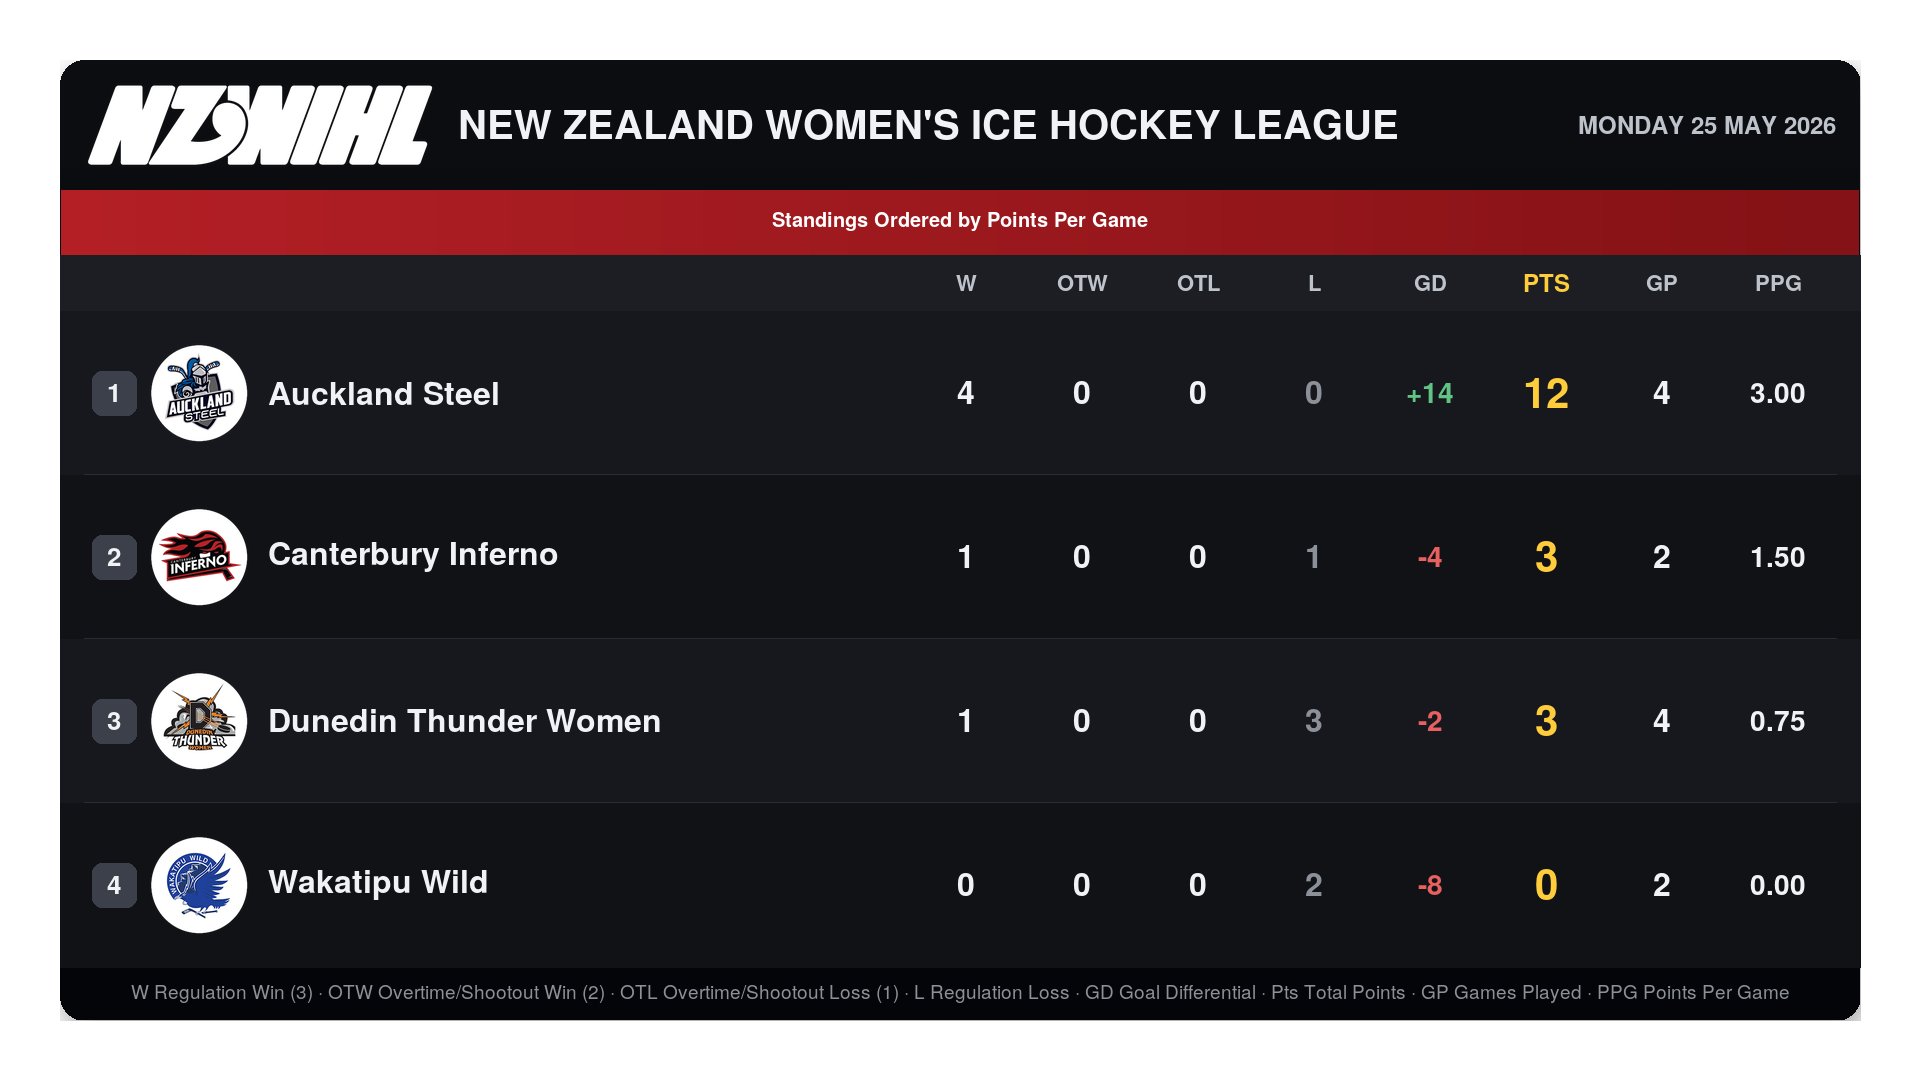
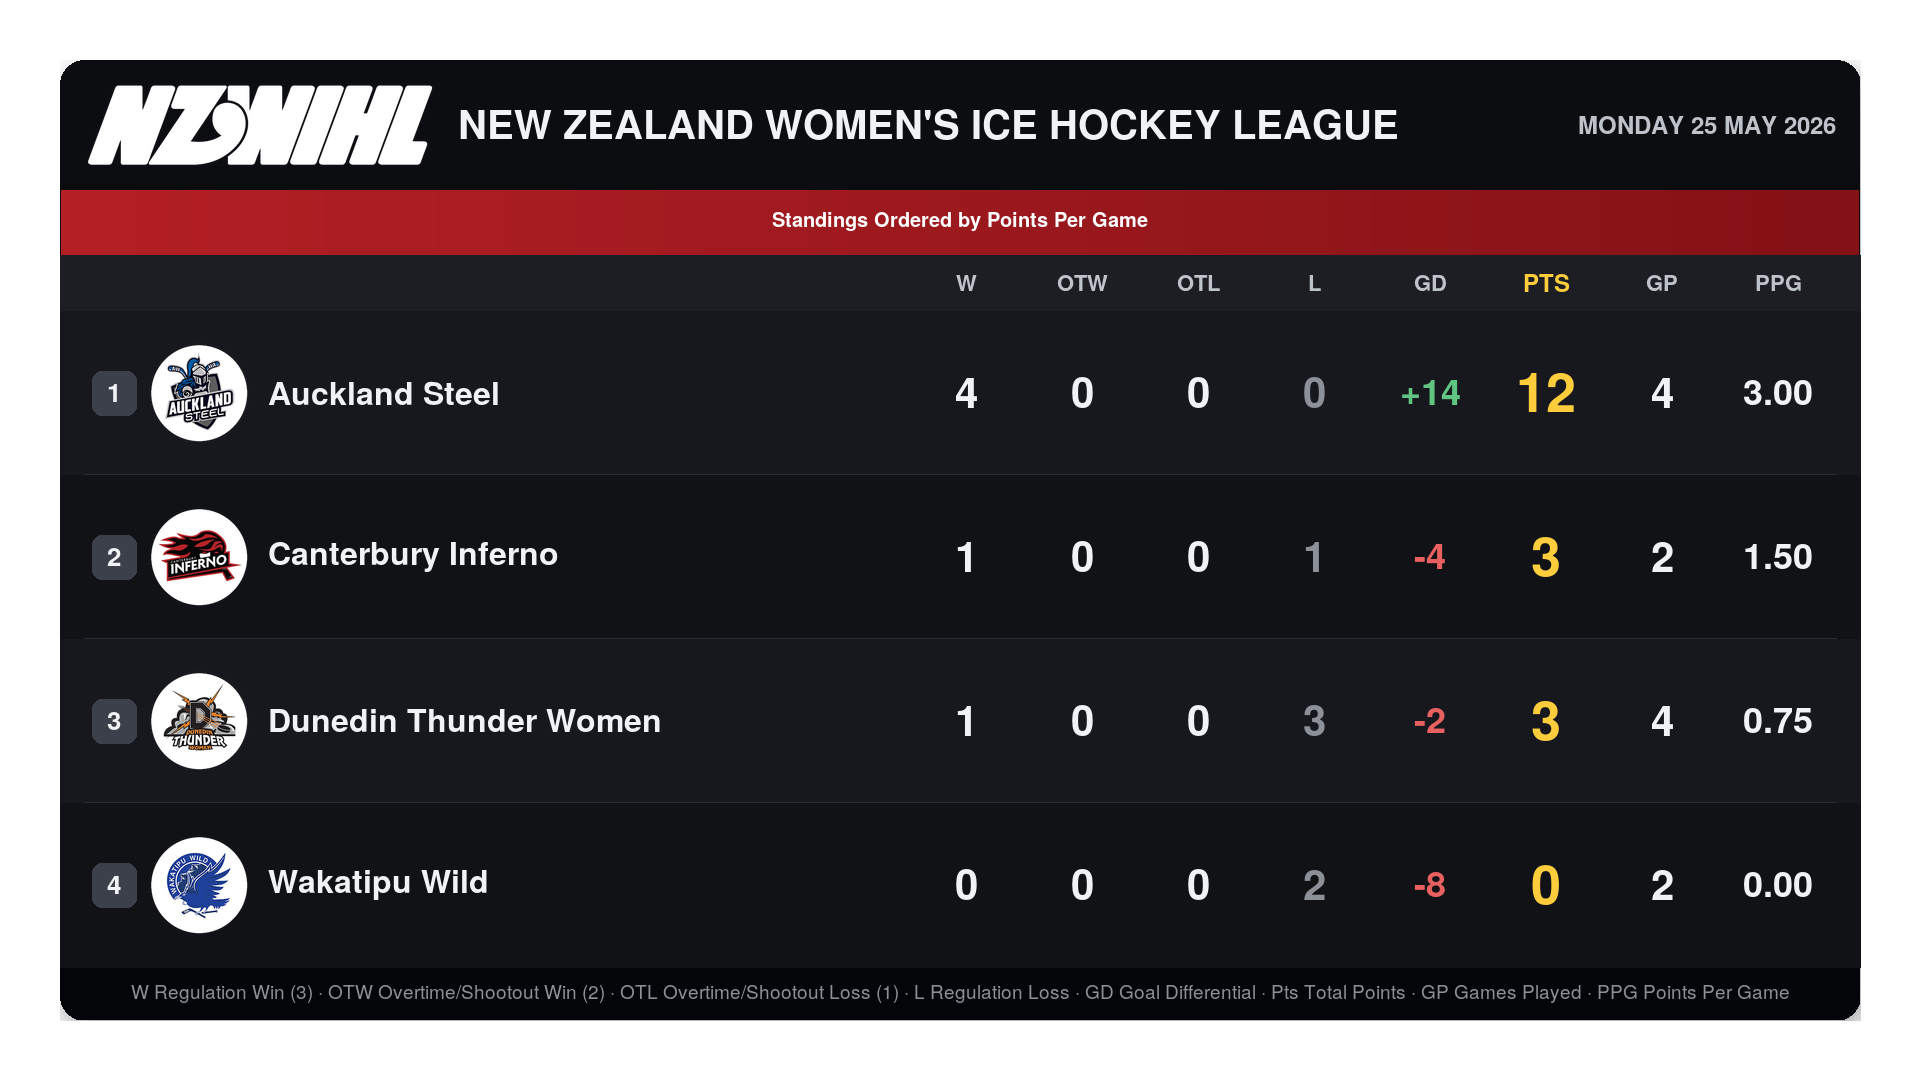
Increase table number font sizes to 36/42/54

diff --git a/build_standings.py b/build_standings.py
@@ -460,21 +460,21 @@ def render(cfg: LeagueConfig, teams: List[Dict]) -> Image.Image:
                 val = team["GD"]
                 txt = f"+{val}" if val > 0 else (str(val) if val < 0 else "0")
                 color = GREEN if val > 0 else (RED_NEG if val < 0 else DIM)
-                _centered(draw, cx, cy, txt, font(28, "semibold"), color)
+                _centered(draw, cx, cy, txt, font(36, "semibold"), color)
             elif col == "PPG":
                 _centered(draw, cx, cy, f"{team['PPG']:.2f}",
-                          font(28, "semibold"), FG)
+                          font(36, "semibold"), FG)
             elif col == "Pts":
                 _centered(draw, cx, cy, str(team["PTS"]),
-                          font(42, "black"), ACCENT)
+                          font(54, "black"), ACCENT)
             else:
                 v = team[col]
                 if col == "L":
                     color = DIM
-                    fnt = font(32, "semibold")
+                    fnt = font(42, "semibold")
                 else:
                     color = FG
-                    fnt = font(32, "bold")
+                    fnt = font(42, "bold")
                 _centered(draw, cx, cy, str(v), fnt, color)
 
     # --- Footer ------------------------------------------------------------
